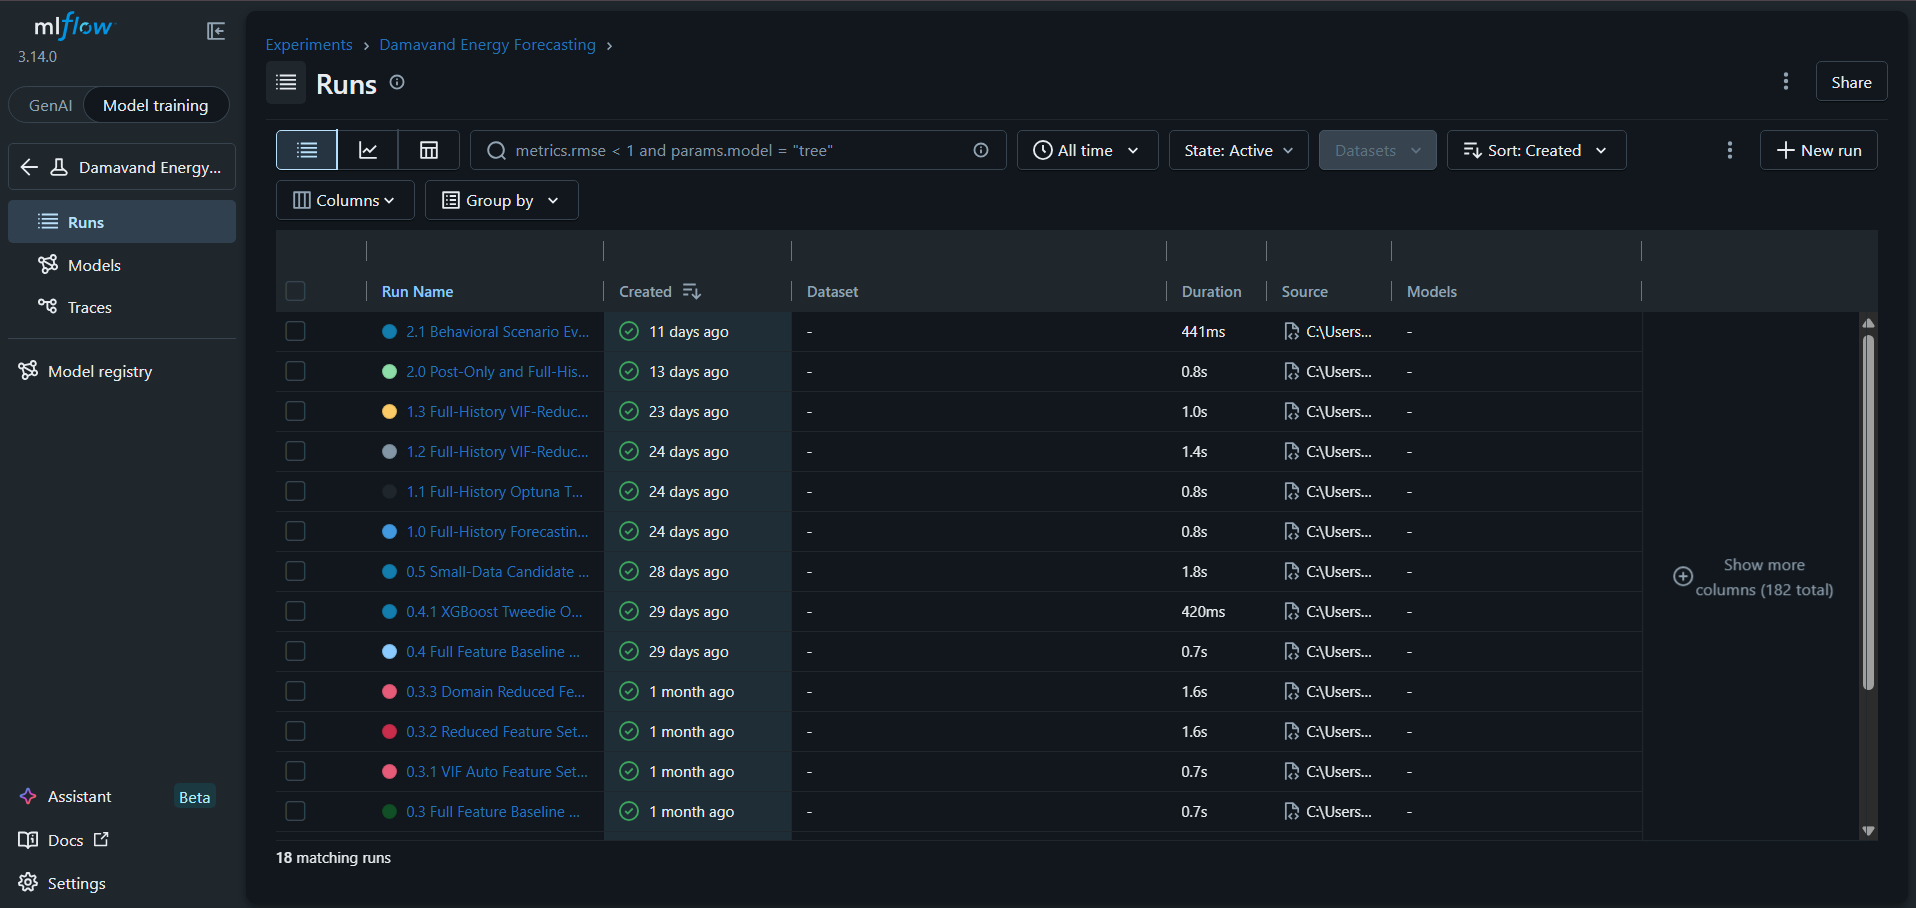
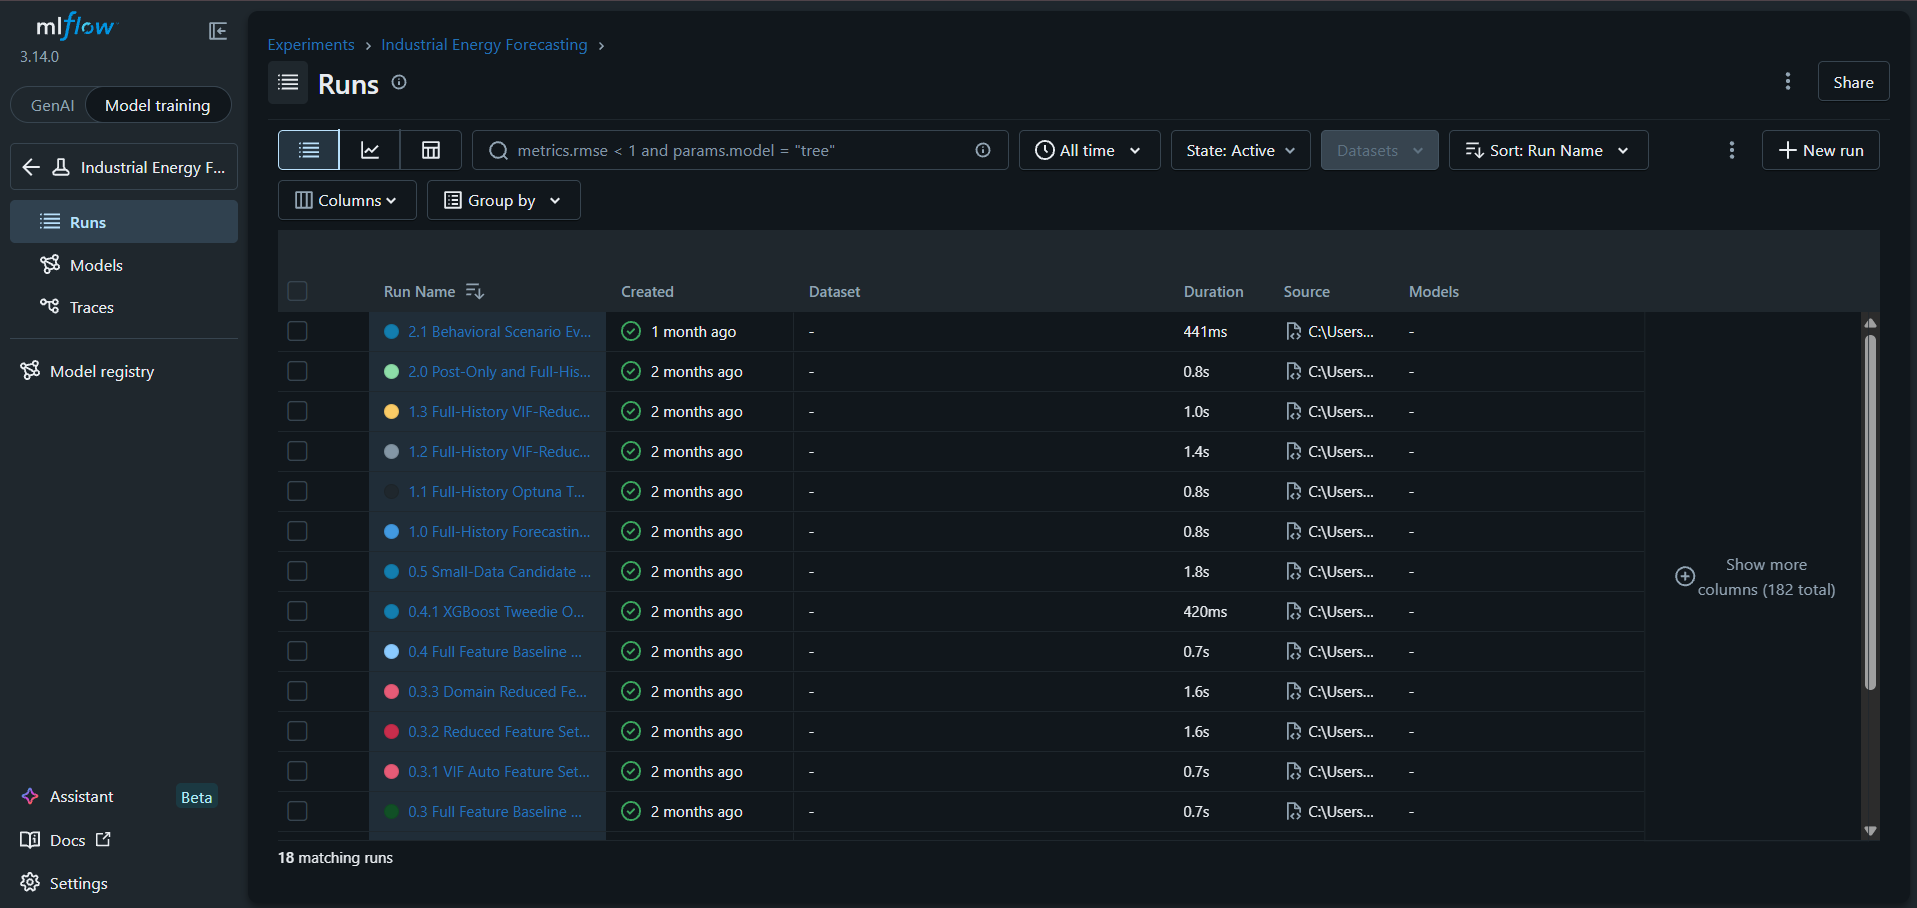
Anonymize project and client references

diff --git a/src/train_full_history.py b/src/train_full_history.py
@@ -1,4 +1,4 @@
-import argparse
+import argparse
 from pathlib import Path
 
 import joblib
@@ -32,7 +32,7 @@ from src.settings import (
 )
 
 
-DATA_PATH = Path("data/processed/damavand.csv")
+DATA_PATH = Path("data/processed/industrial_energy_daily.csv")
 
 REPORTS_DIR = Path("reports")
 FIGURES_BASE_DIR = REPORTS_DIR / "figures"
@@ -56,7 +56,7 @@ FULL_HISTORY_VIF_SELECTED_MODEL_PATH = (
 FULL_HISTORY_VIF_FIGURES_DIR = FIGURES_BASE_DIR / "full_history_vif_advanced_boosting"
 
 MLFLOW_TRACKING_URI = "sqlite:///mlflow.db"
-MLFLOW_EXPERIMENT_NAME = "Damavand Energy Forecasting"
+MLFLOW_EXPERIMENT_NAME = "Industrial Energy Forecasting"
 
 RUN_CONFIGS = {
     "full": {
@@ -89,7 +89,7 @@ def parse_args() -> argparse.Namespace:
     Parse command-line arguments.
     """
     parser = argparse.ArgumentParser(
-        description="Train the Damavand full-history forecasting model."
+        description="Train the industrial full-history forecasting model."
     )
 
     parser.add_argument(
@@ -440,7 +440,7 @@ def log_run_to_mlflow(
         for parameter_name, parameter_value in model.get_params().items():
             mlflow.log_param(f"model__{parameter_name}", parameter_value)
 
-        mlflow.set_tag("project", "damavand_energy_forecasting")
+        mlflow.set_tag("project", "industrial_energy_forecasting")
         mlflow.set_tag("objective", "full_history_forecasting")
         mlflow.set_tag("run_type", run_config["run_type"])
         mlflow.set_tag("selection_stage", "validation")

diff --git a/src/train.py b/src/train.py
@@ -1,4 +1,4 @@
-import argparse
+import argparse
 from pathlib import Path
 
 import joblib
@@ -39,7 +39,7 @@ from src.splits import (
 )
 
 
-DATA_PATH = Path("data/processed/damavand.csv")
+DATA_PATH = Path("data/processed/industrial_energy_daily.csv")
 
 REPORTS_DIR = Path("reports")
 FIGURES_DIR = REPORTS_DIR / "figures"
@@ -51,7 +51,7 @@ FEATURE_LIST_PATH = METADATA_DIR / "post_only_features.txt"
 SELECTED_MODEL_PATH = MODELS_DIR / "post_only_model.joblib"
 
 MLFLOW_TRACKING_URI = "sqlite:///mlflow.db"
-MLFLOW_EXPERIMENT_NAME = "Damavand Energy Forecasting"
+MLFLOW_EXPERIMENT_NAME = "Industrial Energy Forecasting"
 MODELING_VERSION = "0.5"
 
 RUN_NAMES = {
@@ -67,7 +67,7 @@ def parse_args() -> argparse.Namespace:
     Parse command-line arguments.
     """
     parser = argparse.ArgumentParser(
-        description="Train the Damavand post-installation forecasting model."
+        description="Train the industrial post-installation forecasting model."
     )
 
     parser.add_argument(
@@ -343,7 +343,7 @@ def log_run_to_mlflow(
             else "feature_set_diagnostic"
         )
 
-        mlflow.set_tag("project", "damavand_energy_forecasting")
+        mlflow.set_tag("project", "industrial_energy_forecasting")
         mlflow.set_tag("objective", "post_installation_forecasting")
         mlflow.set_tag("run_type", run_type)
         mlflow.set_tag("selection_stage", "validation")

diff --git a/src/train_ensemble.py b/src/train_ensemble.py
@@ -1,4 +1,4 @@
-from __future__ import annotations
+from __future__ import annotations
 
 import argparse
 from pathlib import Path
@@ -38,7 +38,7 @@ from src.settings import (
 )
 
 
-DATA_PATH = Path("data/processed/damavand.csv")
+DATA_PATH = Path("data/processed/industrial_energy_daily.csv")
 
 REPORT_PATH = Path("reports/ensemble_2_0_training_report.xlsx")
 MODEL_PATH = Path("models/ensemble_2_0_model.joblib")
@@ -48,7 +48,7 @@ FIGURES_DIR = Path("reports/figures/ensemble_2_0")
 RUN_NAME = "2.0 Post-Only and Full-History Ensemble Diagnostic"
 RUN_TYPE = "post_only_full_history_ensemble_diagnostic"
 MLFLOW_TRACKING_URI = "sqlite:///mlflow.db"
-MLFLOW_EXPERIMENT_NAME = "Damavand Energy Forecasting"
+MLFLOW_EXPERIMENT_NAME = "Industrial Energy Forecasting"
 
 
 def parse_args() -> argparse.Namespace:
@@ -351,7 +351,7 @@ def log_run_to_mlflow(
     with mlflow.start_run(run_name=RUN_NAME):
         mlflow.set_tags(
             {
-                "project": "damavand_energy_forecasting",
+                "project": "industrial_energy_forecasting",
                 "modeling_version": ENSEMBLE_VERSION,
                 "run_type": RUN_TYPE,
                 "objective": "ensemble_forecasting",

diff --git a/src/multicollinearity.py b/src/multicollinearity.py
@@ -1,4 +1,4 @@
-from pathlib import Path
+from pathlib import Path
 import argparse
 
 import numpy as np
@@ -20,7 +20,7 @@ from src.settings import (
 from src.splits import create_post_split_masks
 
 
-DEFAULT_DATA_PATH = Path("data/processed/damavand.csv")
+DEFAULT_DATA_PATH = Path("data/processed/industrial_energy_daily.csv")
 DEFAULT_OUTPUT_PATH = Path("reports/multicollinearity_report.xlsx")
 
 
@@ -28,9 +28,9 @@ def calculate_single_vif(feature_df: pd.DataFrame, feature_name: str) -> float:
     """
     Calculate VIF for one feature.
 
-    VIF = 1 / (1 - R²)
+    VIF = 1 / (1 - RΒ²)
 
-    R² is calculated by predicting one feature from all other features.
+    RΒ² is calculated by predicting one feature from all other features.
     """
     y = feature_df[feature_name]
     X = feature_df.drop(columns=[feature_name])
@@ -157,7 +157,7 @@ def parse_args() -> argparse.Namespace:
     parser.add_argument(
         "--data-path",
         default=str(DEFAULT_DATA_PATH),
-        help="Path to the processed Damavand dataset.",
+        help="Path to the processed industrial energy dataset.",
     )
 
     parser.add_argument(

diff --git a/src/train_full_history_optuna.py b/src/train_full_history_optuna.py
@@ -1,4 +1,4 @@
-import argparse
+import argparse
 import inspect
 from pathlib import Path
 
@@ -42,7 +42,7 @@ from src.settings import (
 )
 
 
-DATA_PATH = Path("data/processed/damavand.csv")
+DATA_PATH = Path("data/processed/industrial_energy_daily.csv")
 
 REPORTS_DIR = Path("reports")
 FIGURES_BASE_DIR = REPORTS_DIR / "figures"
@@ -50,7 +50,7 @@ METADATA_DIR = REPORTS_DIR / "metadata"
 MODELS_DIR = Path("models")
 
 MLFLOW_TRACKING_URI = "sqlite:///mlflow.db"
-MLFLOW_EXPERIMENT_NAME = "Damavand Energy Forecasting"
+MLFLOW_EXPERIMENT_NAME = "Industrial Energy Forecasting"
 
 MODEL_TYPES = [
     "random_forest",
@@ -723,7 +723,7 @@ def log_run_to_mlflow(
         for parameter_name, parameter_value in model.get_params().items():
             mlflow.log_param(f"model__{parameter_name}", parameter_value)
 
-        mlflow.set_tag("project", "damavand_energy_forecasting")
+        mlflow.set_tag("project", "industrial_energy_forecasting")
         mlflow.set_tag("objective", "full_history_forecasting")
         mlflow.set_tag("run_type", run_config["run_type"])
         mlflow.set_tag("selection_stage", "validation")

diff --git a/src/compare_final_models.py b/src/compare_final_models.py
@@ -1,4 +1,4 @@
-from __future__ import annotations
+from __future__ import annotations
 
 from pathlib import Path
 
@@ -32,7 +32,7 @@ from src.settings import (
 )
 
 
-DATA_PATH = Path("data/processed/damavand.csv")
+DATA_PATH = Path("data/processed/industrial_energy_daily.csv")
 
 REPORT_PATH = Path("reports/final_model_comparison.xlsx")
 FIGURES_DIR = Path("reports/figures/final_model_comparison")
@@ -452,13 +452,13 @@ def main() -> None:
         metrics_df=validation_metrics_df,
         metric_name="r2",
         output_path=FIGURES_DIR / "validation_r2_comparison.png",
-        title="Offline Champion-Challenger: Validation R²",
+        title="Offline Champion-Challenger: Validation RΒ²",
     )
     save_metric_bar_plot(
         metrics_df=test_metrics_df,
         metric_name="r2",
         output_path=FIGURES_DIR / "test_r2_comparison.png",
-        title="Offline Champion-Challenger: Test R²",
+        title="Offline Champion-Challenger: Test RΒ²",
     )
     save_test_prediction_plot(
         test_predictions_df=test_predictions_df,

diff --git a/src/preprocessing.py b/src/preprocessing.py
@@ -1,4 +1,4 @@
-import pandas as pd
+import pandas as pd
 
 
 def validate_required_columns(df: pd.DataFrame, required_columns: list[str]) -> None:
@@ -18,7 +18,7 @@ def parse_date_column(df: pd.DataFrame, date_col: str) -> pd.DataFrame:
     """
     Parse the date column robustly.
 
-    The Damavand dataset uses European-style dates, so day-first parsing is
+    The industrial energy dataset uses European-style dates, so day-first parsing is
     attempted first. A non-day-first parse is also tested, and the version
     with more valid parsed dates is kept.
     """
@@ -51,7 +51,7 @@ def clean_energy_dataset(
     remove_zero_target: bool = True,
 ) -> pd.DataFrame:
     """
-    Clean the final Damavand forecasting dataset.
+    Clean the final industrial energy forecasting dataset.
 
     Steps:
     - parse date column

diff --git a/src/multicollinearity_full.py b/src/multicollinearity_full.py
@@ -1,4 +1,4 @@
-from pathlib import Path
+from pathlib import Path
 import argparse
 
 import pandas as pd
@@ -13,7 +13,7 @@ from src.preprocessing import clean_energy_dataset, validate_required_columns
 from src.settings import DATE_COL, FEATURE_COLUMNS, TARGET_COL
 
 
-DEFAULT_DATA_PATH = Path("data/processed/damavand.csv")
+DEFAULT_DATA_PATH = Path("data/processed/industrial_energy_daily.csv")
 DEFAULT_OUTPUT_PATH = Path("reports/multicollinearity_full_dataset_report.xlsx")
 
 
@@ -28,7 +28,7 @@ def parse_args() -> argparse.Namespace:
     parser.add_argument(
         "--data-path",
         default=str(DEFAULT_DATA_PATH),
-        help="Path to the processed Damavand dataset.",
+        help="Path to the processed industrial energy dataset.",
     )
 
     parser.add_argument(

diff --git a/src/features.py b/src/features.py
@@ -1,4 +1,4 @@
-import pandas as pd
+import pandas as pd
 
 from src.settings import DATE_COL, FEATURE_COLUMNS, TARGET_COL
 
@@ -7,7 +7,7 @@ def add_calendar_features(df: pd.DataFrame) -> pd.DataFrame:
     """
     Add calendar-based features from the project date column.
 
-    The current Damavand dataset already contains these columns, but this
+    The current industrial energy dataset already contains these columns, but this
     function keeps the forecasting pipeline reproducible if calendar features
     need to be recreated later.
     """

diff --git a/src/stress_test_ensemble.py b/src/stress_test_ensemble.py
@@ -25,7 +25,7 @@ from src.settings import (
 )
 
 
-DATA_PATH = Path("data/processed/damavand.csv")
+DATA_PATH = Path("data/processed/industrial_energy_daily.csv")
 
 REPORT_PATH = Path(
     "reports/ensemble_2_1_behavioral_stress_test_report.xlsx"
@@ -35,7 +35,7 @@ FIGURES_DIR = Path(
 )
 
 MLFLOW_TRACKING_URI = "sqlite:///mlflow.db"
-MLFLOW_EXPERIMENT_NAME = "Damavand Energy Forecasting"
+MLFLOW_EXPERIMENT_NAME = "Industrial Energy Forecasting"
 MLFLOW_RUN_NAME = (
     "2.1 Behavioral Scenario Evaluation and Synthetic Stress Test"
 )

diff --git a/tests/test_api.py b/tests/test_api.py
@@ -1,4 +1,4 @@
-import json
+import json
 import math
 
 import pytest
@@ -344,7 +344,7 @@ def test_root_endpoint_returns_service_navigation(client):
 
     assert response.status_code == 200
     assert response.json() == {
-        "service": "Damavand Energy Forecasting API",
+        "service": "Industrial Energy Forecasting API",
         "api_version": "1.0.0",
         "documentation_url": "/docs",
         "health_url": "/health",

diff --git a/scripts/build_serving_reference.py b/scripts/build_serving_reference.py
@@ -1,4 +1,4 @@
-from __future__ import annotations
+from __future__ import annotations
 
 import json
 from pathlib import Path
@@ -10,7 +10,7 @@ from src.preprocessing import clean_energy_dataset
 from src.settings import DATE_COL, TARGET_COL
 
 
-DATA_PATH = Path("data/processed/damavand.csv")
+DATA_PATH = Path("data/processed/industrial_energy_daily.csv")
 OUTPUT_PATH = Path(
     "config/serving/input_reference.json"
 )
